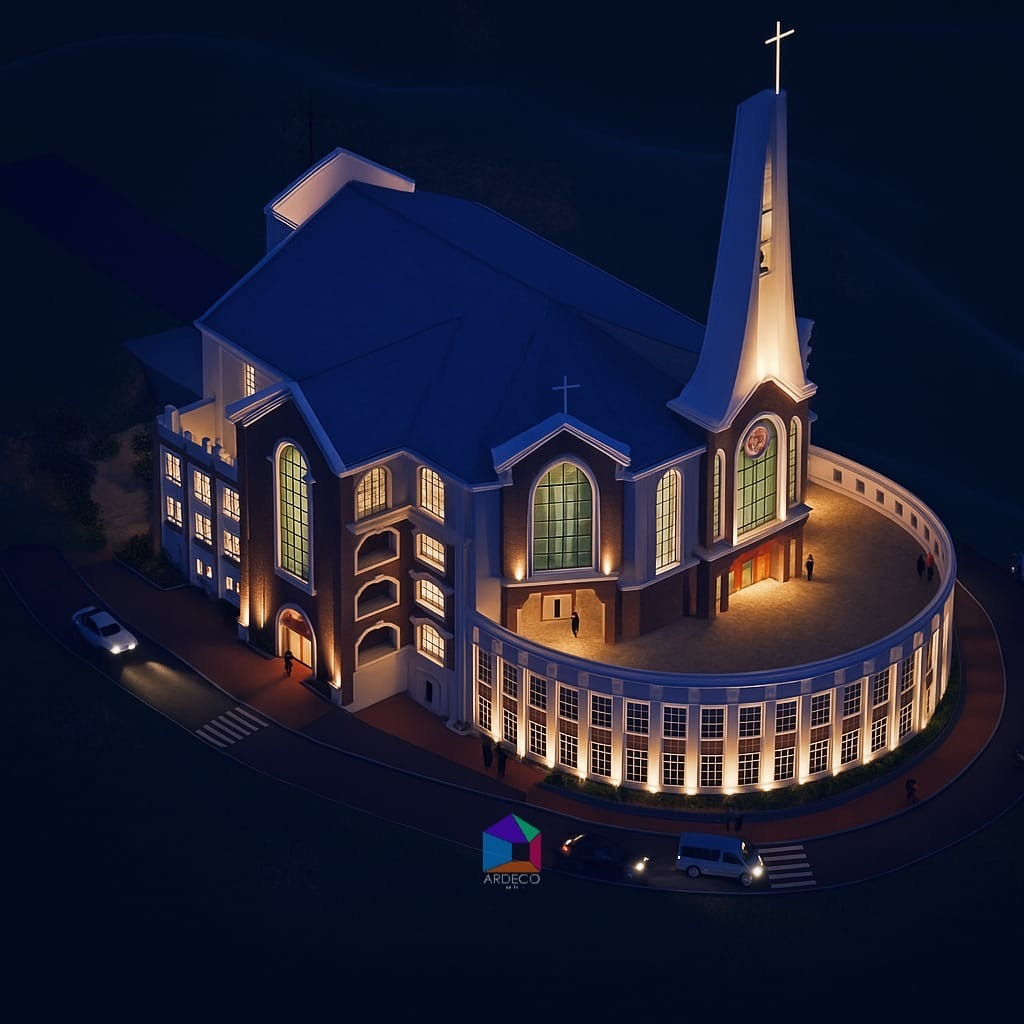
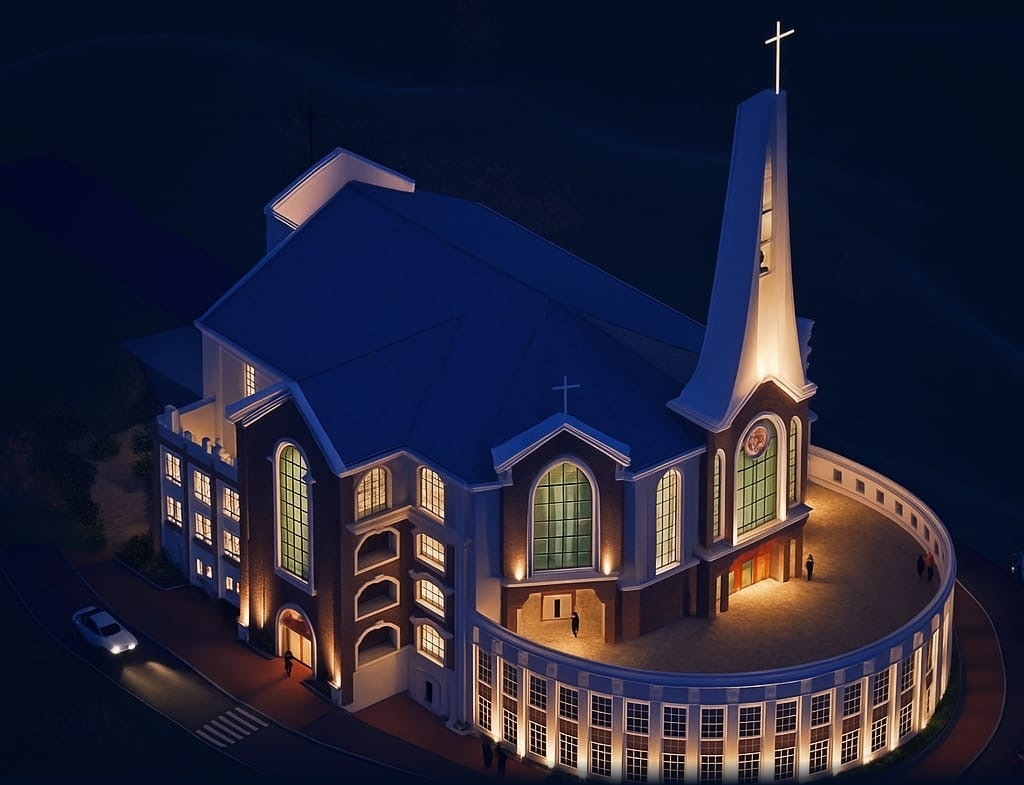
feat: trim bottom part of background image to fit perfectly without scrolling

diff --git a/src/pages/Login.jsx b/src/pages/Login.jsx
@@ -143,7 +143,7 @@ export default function Login({ onLoginSuccess, showToast }) {
 
   return (
     <div
-      className="min-h-[100dvh] h-[100dvh] w-full flex flex-col justify-end sm:justify-center items-center px-4 pb-14 sm:pb-6 pt-2 sm:pt-6 relative overflow-hidden bg-[#030d21] bg-no-repeat bg-[position:center_top] sm:bg-center bg-[length:100%_auto] sm:bg-contain"
+      className="h-[100dvh] max-h-[100dvh] w-full flex flex-col justify-end sm:justify-center items-center px-4 pb-10 sm:pb-6 pt-2 sm:pt-6 relative overflow-hidden bg-[#030d21] bg-no-repeat bg-[position:center_top] sm:bg-center bg-[length:100%_auto] sm:bg-contain"
       style={{ backgroundImage: `url(${loginBg})` }}
     >
       {/* Ambient background blur for widescreen desktop displays */}
